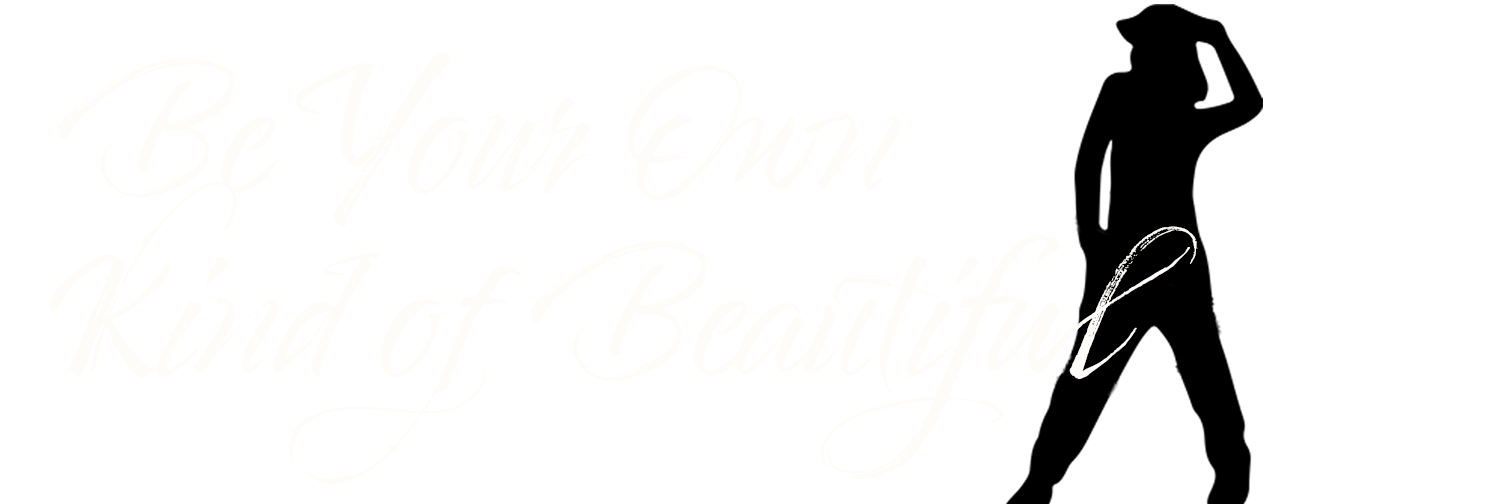
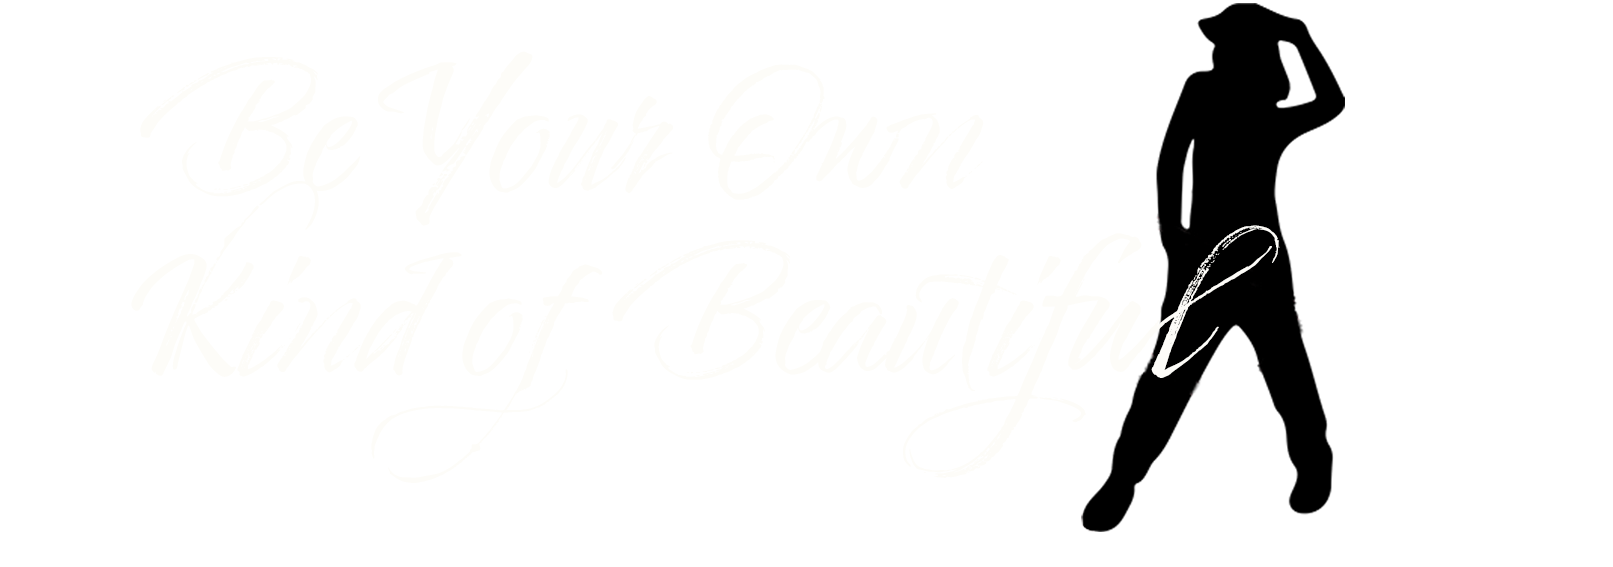
front-page formatting done

Changed region(s): [[0.6496, 0.0, 0.8662, 1.0]]

diff --git a/src/components/Contact/index.js b/src/components/Contact/index.js
@@ -6,15 +6,12 @@ function Contact() {
     return(
         <Container>
             <div className="contact heading">
-            <p className="reg-txt colored-txt contact-title">We'd love to here from you...</p>
+            <p className="reg-txt colored-txt contact-title">We would love to here from you...</p>
             <form className="contact-form">
-                <label className="reg-txt">Your Name</label>
-                <input type="text" placeholder="Jane Doe" id="contact-name" className="form-control reg-txt mb-2 mr-sm-2 contact-form"/>
-                <label className="reg-txt">Your Email</label>
-                <input type="text" placeholder="jane@email.com" id="contact-email" className="form-control reg-txt mb-2 mr-sm-2 contact-form" />
-                <label className="reg-txt">Comment</label>
-                <input type="text" placeholder="Write your comment here..." id="contact-comment" className="form-control reg-txt mb-2 mr-sm-2 contact-form" />
-                <button type="submit" className="btn btn-primary curs-txt mb-2 sign-up-form" id="contact-btn">Send</button>
+                <input type="text" placeholder="Your Name" id="contact-name" className="form-control reg-txt mb-2 ml-sm-2 contact-form"/>
+                <input type="text" placeholder="Your Email" id="contact-email" className="form-control reg-txt mb-2 ml-sm-2 contact-form" />
+                <input type="text" placeholder="Write your comment here..." id="contact-comment" className="form-control reg-txt mb-2 ml-sm-2 contact-form" />
+                <button type="submit" className="btn btn-primary curs-txt mb-1 sign-up-form float-right" id="contact-btn">Send</button>
             </form>
         </div>
         </Container>

diff --git a/src/components/SignUp/index.js b/src/components/SignUp/index.js
@@ -11,12 +11,17 @@ function SignUp () {
                     <Col size="md-4">
                         <img className="first-to-know" src={img} />
                     </Col>
-                    <Col size="md-4">
-                        <input type="text" class="form-control reg-txt mb-2 mr-sm-2 sign-up-form" id="inlineFormInputName2" placeholder="Jane Doe"/>
-                        <input type="text" class="form-control reg-txt sign-up-form" id="inlineFormInputGroupUsername2" placeholder="Email"/>
-                        <button type="submit" class="btn btn-primary curs-txt mb-2 sign-up-form">Sign Up</button>
+                    <Col size="md-6">
+                        <input type="text" class="form-control reg-txt mb-2 mr-sm-2 sign-up-form" id="inlineFormInputName2" placeholder="First Name"/>
+                        <Row>
+                            <Col size="md-4">
+                                <input type="text" class="form-control reg-txt sign-up-form" id="inlineFormInputGroupUsername2" placeholder="Email"/>
+                            </Col>
+                            <Col size="md-1">
+                                <button type="submit" class="btn btn-primary curs-txt sign-up-form" id="sign-up-btn">Sign Up</button>
+                            </Col>
+                        </Row>
                     </Col>
-                    <Col size="md-2"></Col>
             </Row>
         </div>
 

diff --git a/src/components/Locations/index.js b/src/components/Locations/index.js
@@ -19,9 +19,12 @@ function Locations () {
                                 <Col size="md-6">
                                     <iframe src={l.map} width="400" height="300" frameborder="0"  allowfullscreen=""></iframe>
                                 </Col>
-                                <Col size="md-4">
-                                    <p className="curs-txt colored-txt contact-title" key={l._id}>{l.city}</p>
-                                    <p className="reg-txt colored-txt address">{l.address}</p>
+                                <Col size="md-4" >
+                                    <div className="address-info">
+                                        <p className="curs-txt colored-txt contact-title" key={l._id}>{l.city}</p>
+                                        <p className="reg-txt colored-txt address">{l.address}</p>
+                                    </div>
+                                    
                                 </Col>
                                 <Col size="md-1"></Col>
 

diff --git a/src/Brand.css b/src/Brand.css
@@ -15,6 +15,9 @@
 a{
     text-decoration: none;
 }
+p{
+    color: #333;
+}
 body{
     background-color: #ca8081;   
     text-align: center;
@@ -46,6 +49,9 @@ body{
     color: #fff;
     border: 3px white solid;
     margin-top: 3px;
+    border-radius: 50%;
+    width: 100px;
+    
 }
 .btn:hover{
     background-color: white;
@@ -67,4 +73,16 @@ body{
 .form-control{
     background-color: #E2A5A6;
     color: #fff;
+}
+/* #sign-up-btn{
+    position: relative;
+    top: -30px;
+    right: 20px;
+} */
+.music_bg{
+    background-image: url("./utils/images/bg_music.png") ;
+    
+}
+.heading{
+    z-index: -10;
 }

diff --git a/src/App.js b/src/App.js
@@ -37,6 +37,9 @@ function App() {
             <div className="sign-up-box" >
               <SignUp/>
             </div>
+            <div className="music_bg">
+              <br/><br/><br/><br/><br/><br/><br/><br/><br/>
+            </div>
 
             {/* <Card>
               <SocialMedia />
@@ -46,9 +49,9 @@ function App() {
               <Testimonials />
             </Card> */}
 
-            <div className="contact-box" >
+            {/* <div className="contact-box" >
               <Locations/>
-            </div>
+            </div> */}
 
             <Card>
               <Contact/>

diff --git a/src/components/Contact/style.css b/src/components/Contact/style.css
@@ -1,16 +1,24 @@
 .contact{
-    text-align: left;
+    /* text-align: left; */
     padding-left: 30px;
-    padding-right: 30px
+    padding-right: 30px;
+    margin-left: auto; 
+    margin-right: auto;
 }
 .contact-form{
     width: 80%;
+    margin-left: auto; 
+    margin-right: auto;
 }
 .contact-title{
-    font-size: 25px;
+    font-size: 40px;
+}
+#contact-name, #contact-email{
+    width: 200px;
+    text-align: left;
 }
 #contact-btn{
-    width: 50%
+    width: 100px;
 }
 #contact-comment{
     height:100px;

diff --git a/src/components/Header/style.css b/src/components/Header/style.css
@@ -2,10 +2,14 @@
     text-align: center;
     margin-left: auto;
     margin-right: auto;
+    z-index: 100000000;
 }
 .header-img{
     width: 900px; 
     height: auto;
+    position: relative;
+    top: 40px;
+    
 }
 @media screen and (max-width: 950px){
     .header-img{

diff --git a/src/components/SignUp/style.css b/src/components/SignUp/style.css
@@ -1,3 +1,12 @@
 .first-to-know{
     width: 300px;
+    position: relative;
+    top: -40px;
+}
+.sign-up-form{
+    width: 200px;
+}
+.signUp{
+    padding-bottom: 0px;
+    
 }

diff --git a/src/components/About/style.css b/src/components/About/style.css
@@ -19,3 +19,8 @@
     margin-top: auto;
     margin-bottom: auto;
 }
+@media screen and (max-width:765px){
+    .image-about{
+        display: none;
+    }
+}

diff --git a/src/components/Locations/style.css b/src/components/Locations/style.css
@@ -1,0 +1,8 @@
+.address-info {
+    padding: 10px;
+    margin-top: auto;
+    margin-bottom: auto;
+}
+.address{
+    font-size: 20px;
+}

diff --git a/src/components/About/index.js b/src/components/About/index.js
@@ -26,7 +26,6 @@ function About(props) {
           </Col>
         </Row>
       )
-
 }
 
 
